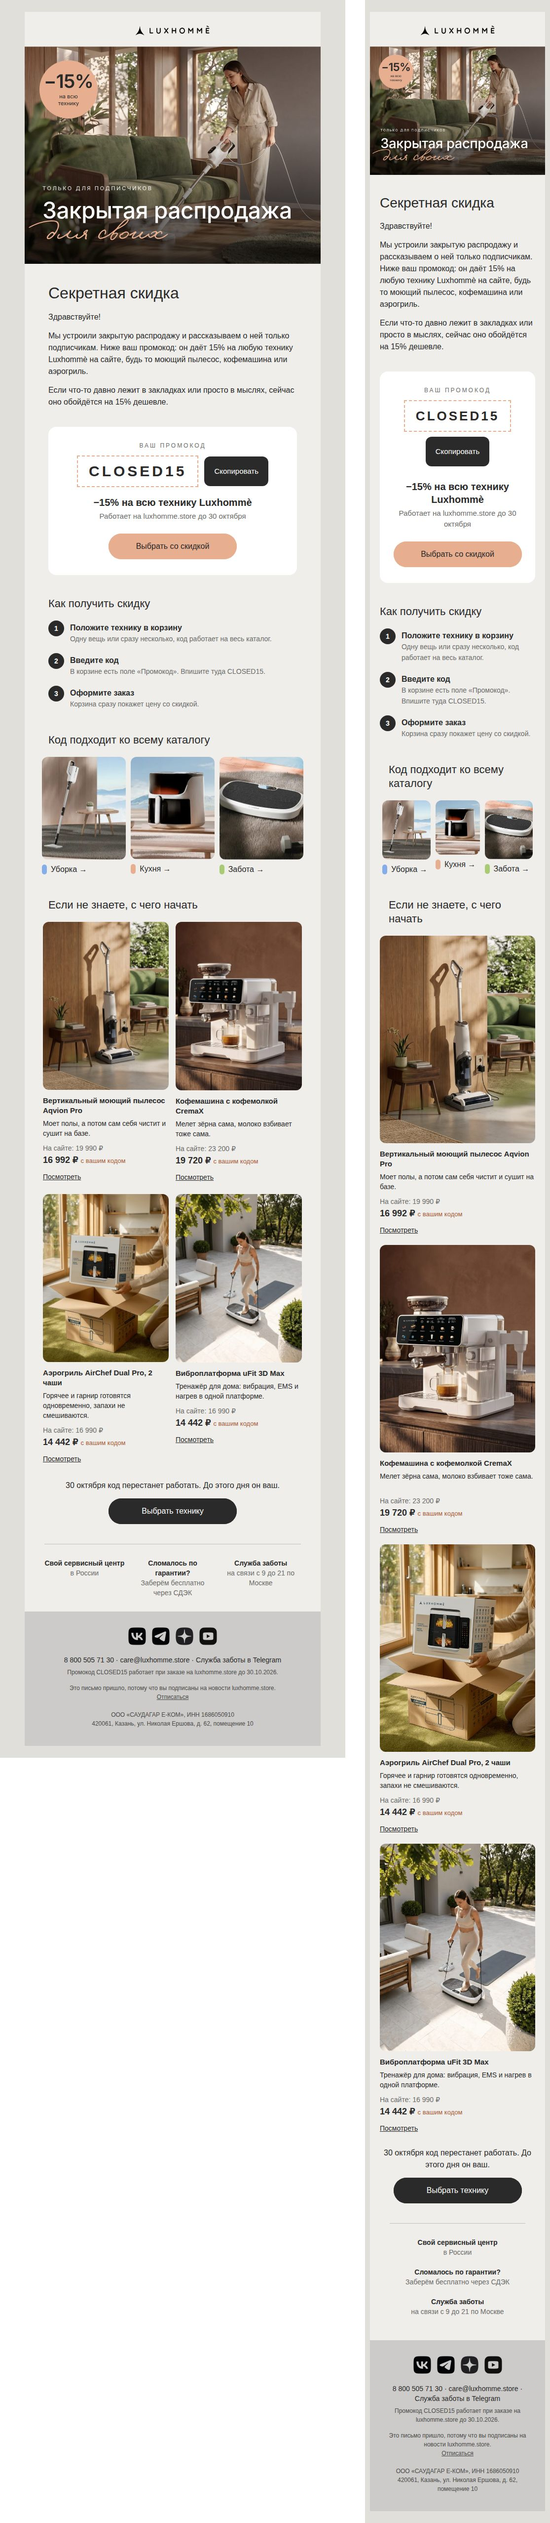
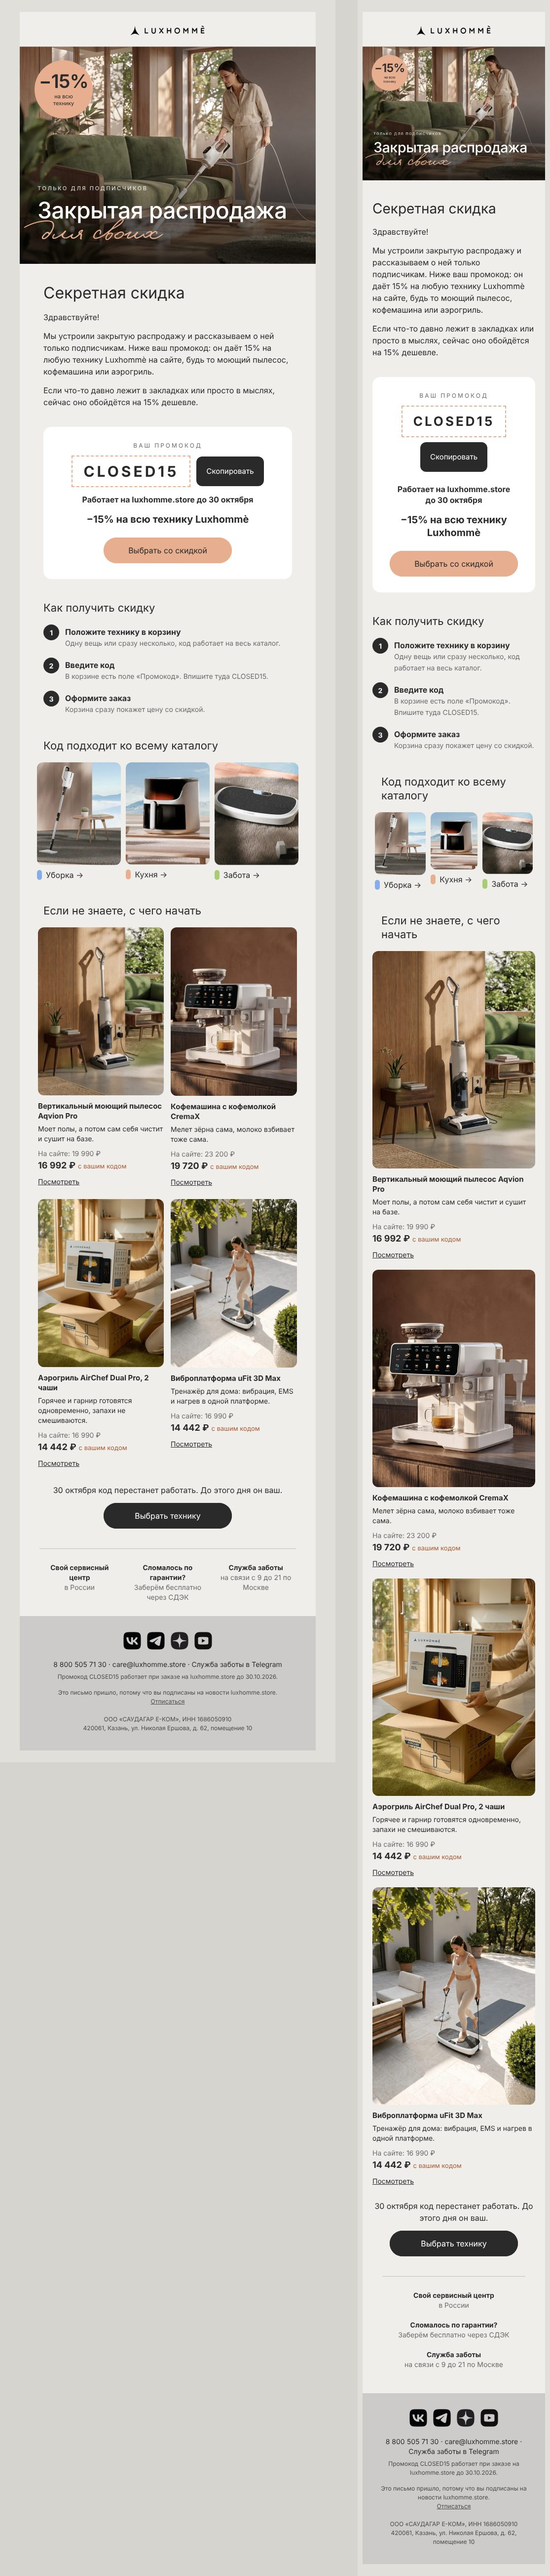
Luxhomme, письмо: «Работает до 30 октября» жирным сразу под промокодом
Claude-Session: https://claude.ai/code/session_01QniT6Jg9qnXHndvmXB1d5x

diff --git a/clients/luxhomme/email/2026-10-closed-sale/Luxhomme_email_preview.html b/clients/luxhomme/email/2026-10-closed-sale/Luxhomme_email_preview.html
@@ -62,8 +62,8 @@ a[x-apple-data-detectors]{color:inherit!important;text-decoration:none!important
 <a href="https://luxhomme.store/catalog?promo=CLOSED15&utm_source=bitrix&utm_medium=email&utm_campaign=closed_sale_2026_10&utm_content=copy_btn" target="_blank" style="display:inline-block;padding:20px 20px;font-family:'Helvetica Neue', Helvetica, Arial, sans-serif;font-size:15px;line-height:20px;color:#ffffff;text-decoration:none;border-radius:12px;">Скопировать</a>
 </td></tr></table></td>
 </tr></table>
-<p style="margin:18px 0 4px;font-family:'Helvetica Neue', Helvetica, Arial, sans-serif;font-size:20px;line-height:26px;color:#2a2a2a;"><strong>−15% на всю технику Luxhommè</strong></p>
-<p style="margin:0 0 24px;font-family:'Helvetica Neue', Helvetica, Arial, sans-serif;font-size:15px;line-height:22px;color:#6b6b69;">Работает на luxhomme.store до 30 октября</p>
+<p style="margin:14px 0 0;font-family:'Helvetica Neue', Helvetica, Arial, sans-serif;font-size:16px;line-height:22px;font-weight:bold;color:#2a2a2a;">Работает на luxhomme.store до&nbsp;30&nbsp;октября</p>
+<p style="margin:16px 0 24px;font-family:'Helvetica Neue', Helvetica, Arial, sans-serif;font-size:20px;line-height:26px;color:#2a2a2a;"><strong>−15% на всю технику Luxhommè</strong></p>
 <table role="presentation" cellpadding="0" cellspacing="0" border="0" align="center"><tr>
 <td align="center" bgcolor="#e7ae90" style="border-radius:999px;">
 <!--[if mso]><v:roundrect xmlns:v="urn:schemas-microsoft-com:vml" href="https://luxhomme.store/catalog?utm_source=bitrix&utm_medium=email&utm_campaign=closed_sale_2026_10&utm_content=cta_promo" style="height:52px;v-text-anchor:middle;width:260px;" arcsize="50%" stroke="f" fillcolor="#e7ae90"><center style="color:#2a2a2a;font-family:Arial,sans-serif;font-size:16px;">Выбрать со скидкой</center></v:roundrect><![endif]-->

diff --git a/clients/luxhomme/email/2026-10-closed-sale/email.html b/clients/luxhomme/email/2026-10-closed-sale/email.html
@@ -62,8 +62,8 @@ a[x-apple-data-detectors]{color:inherit!important;text-decoration:none!important
 <a href="https://luxhomme.store/catalog?promo=CLOSED15&utm_source=bitrix&utm_medium=email&utm_campaign=closed_sale_2026_10&utm_content=copy_btn" target="_blank" style="display:inline-block;padding:20px 20px;font-family:'Helvetica Neue', Helvetica, Arial, sans-serif;font-size:15px;line-height:20px;color:#ffffff;text-decoration:none;border-radius:12px;">Скопировать</a>
 </td></tr></table></td>
 </tr></table>
-<p style="margin:18px 0 4px;font-family:'Helvetica Neue', Helvetica, Arial, sans-serif;font-size:20px;line-height:26px;color:#2a2a2a;"><strong>−15% на всю технику Luxhommè</strong></p>
-<p style="margin:0 0 24px;font-family:'Helvetica Neue', Helvetica, Arial, sans-serif;font-size:15px;line-height:22px;color:#6b6b69;">Работает на luxhomme.store до 30 октября</p>
+<p style="margin:14px 0 0;font-family:'Helvetica Neue', Helvetica, Arial, sans-serif;font-size:16px;line-height:22px;font-weight:bold;color:#2a2a2a;">Работает на luxhomme.store до&nbsp;30&nbsp;октября</p>
+<p style="margin:16px 0 24px;font-family:'Helvetica Neue', Helvetica, Arial, sans-serif;font-size:20px;line-height:26px;color:#2a2a2a;"><strong>−15% на всю технику Luxhommè</strong></p>
 <table role="presentation" cellpadding="0" cellspacing="0" border="0" align="center"><tr>
 <td align="center" bgcolor="#e7ae90" style="border-radius:999px;">
 <!--[if mso]><v:roundrect xmlns:v="urn:schemas-microsoft-com:vml" href="https://luxhomme.store/catalog?utm_source=bitrix&utm_medium=email&utm_campaign=closed_sale_2026_10&utm_content=cta_promo" style="height:52px;v-text-anchor:middle;width:260px;" arcsize="50%" stroke="f" fillcolor="#e7ae90"><center style="color:#2a2a2a;font-family:Arial,sans-serif;font-size:16px;">Выбрать со скидкой</center></v:roundrect><![endif]-->

diff --git a/clients/luxhomme/email/2026-10-closed-sale/scripts/build_email.py b/clients/luxhomme/email/2026-10-closed-sale/scripts/build_email.py
@@ -204,8 +204,8 @@ a[x-apple-data-detectors]{{color:inherit!important;text-decoration:none!importan
 <a href="{link('/catalog?promo=' + PROMO, 'copy_btn')}" target="_blank" style="display:inline-block;padding:20px 20px;font-family:{FONT};font-size:15px;line-height:20px;color:#ffffff;text-decoration:none;border-radius:12px;">Скопировать</a>
 </td></tr></table></td>
 </tr></table>
-<p style="margin:18px 0 4px;font-family:{FONT};font-size:20px;line-height:26px;color:{C['text']};"><strong>−15% на всю технику Luxhommè</strong></p>
-<p style="margin:0 0 24px;font-family:{FONT};font-size:15px;line-height:22px;color:{C['grey']};">Работает на luxhomme.store до 30 октября</p>
+<p style="margin:14px 0 0;font-family:{FONT};font-size:16px;line-height:22px;font-weight:bold;color:{C['text']};">Работает на luxhomme.store до&nbsp;30&nbsp;октября</p>
+<p style="margin:16px 0 24px;font-family:{FONT};font-size:20px;line-height:26px;color:{C['text']};"><strong>−15% на всю технику Luxhommè</strong></p>
 {btn("Выбрать со скидкой", link('/catalog', 'cta_promo'))}
 </td></tr></table>
 </td></tr>
